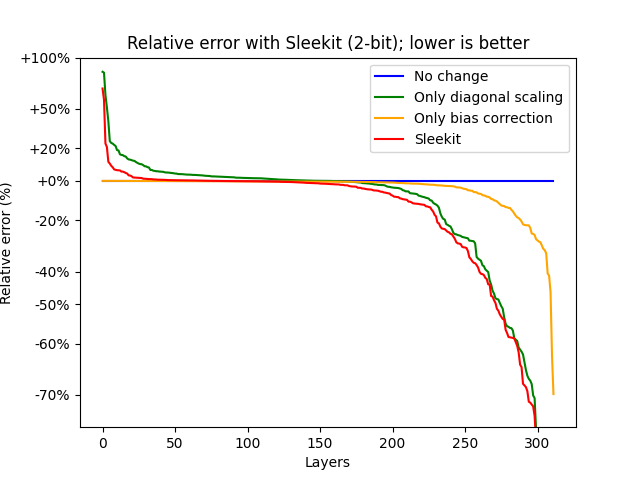
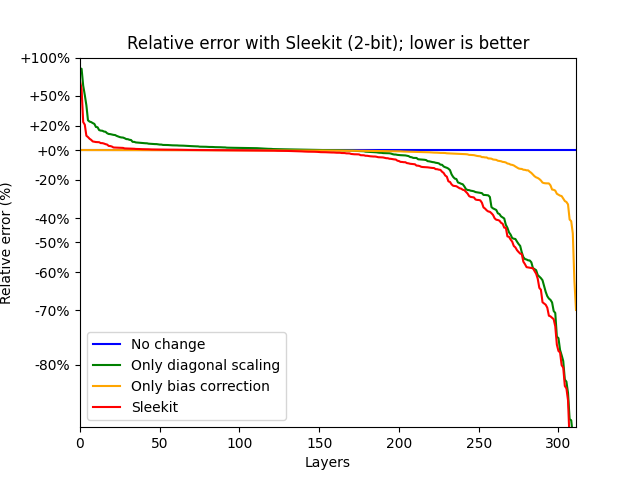
Change limits for the graphs

diff --git a/results/graph.py b/results/graph.py
@@ -23,9 +23,10 @@ for b in [1, 1.5, 2, 3]:
     plt.xlabel("Layers")
     plt.ylabel("Error relative to diagonal ordering (%)")
     plt.yscale("log")
-    plt.ylim(bottom=0.25, top=2.0)
+    plt.xlim(left=0, right=len(data) - 1)
+    plt.ylim(bottom=0.5, top=1.5)
 
-    yticks = [0.3, 0.4, 0.5, 0.6, 0.8, 1.0, 1.2, 1.5, 2.0]
+    yticks = [0.5, 0.6, 0.8, 1.0, 1.2, 1.5, 2.0]
     plt.gca().set_yticks([])
     plt.gca().set_yticks([], minor=True)
     plt.gca().set_yticks(yticks)
@@ -57,6 +58,7 @@ for b in [1, 1.5, 2, 3]:
     plt.xlabel("Layers")
     plt.ylabel("Error relative to GPTQ alone (%)")
     plt.yscale("log")
+    plt.xlim(left=0, right=len(data) - 1)
     plt.ylim(bottom=0.25, top=2.0)
 
     yticks = [0.3, 0.4, 0.5, 0.6, 0.8, 1.0, 1.2, 1.5, 2.0]
@@ -95,9 +97,10 @@ for b in [1, 1.5, 2, 3]:
     plt.xlabel("Layers")
     plt.ylabel("Relative error (%)")
     plt.yscale("log")
-    plt.ylim(bottom=0.25, top=2.0)
+    plt.xlim(left=0, right=len(data) - 1)
+    plt.ylim(bottom=0.125, top=2.0)
 
-    yticks = [0.3, 0.4, 0.5, 0.6, 0.8, 1.0, 1.2, 1.5, 2.0]
+    yticks = [0.2, 0.3, 0.4, 0.5, 0.6, 0.8, 1.0, 1.2, 1.5, 2.0]
     plt.gca().set_yticks([])
     plt.gca().set_yticks([], minor=True)
     plt.gca().set_yticks(yticks)
@@ -132,9 +135,10 @@ for b in [1, 1.5, 2, 3]:
     plt.xlabel("Layers")
     plt.ylabel("Error relative to MSE scaling (%)")
     plt.yscale("log")
-    plt.ylim(bottom=0.25, top=2.0)
+    plt.xlim(left=0, right=len(data) - 1)
+    plt.ylim(bottom=0.125, top=2.0)
 
-    yticks = [0.3, 0.4, 0.5, 0.6, 0.8, 1.0, 1.2, 1.5, 2.0]
+    yticks = [0.2, 0.3, 0.4, 0.5, 0.6, 0.8, 1.0, 1.2, 1.5, 2.0]
     plt.gca().set_yticks([])
     plt.gca().set_yticks([], minor=True)
     plt.gca().set_yticks(yticks)
